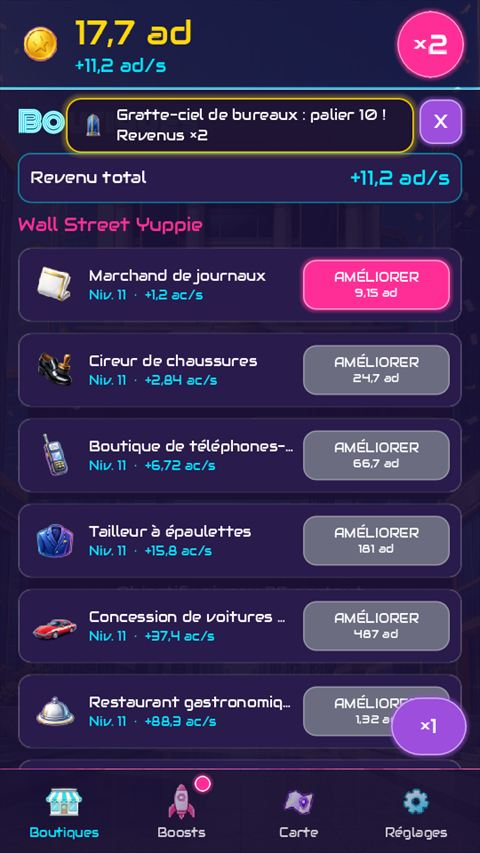
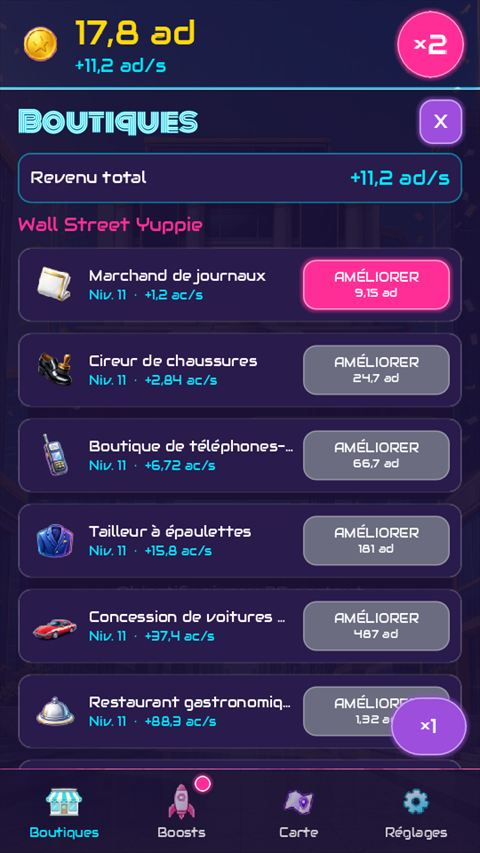
Fiches de jeu réorganisées et nouvelles captures de Shop Street Idle
- Captures phares en haut de chaque fiche, partie technique avant les
  mécaniques, mécaniques repliables, galerie complète à la fin
- Captures de Shop Street Idle refaites sans le bandeau de palier

Changed region(s): [[0.125, 0.0914, 0.875, 0.1829], [0.2188, 0.0, 0.4062, 0.061], [0.9062, 0.0305, 0.9375, 0.061]]

diff --git a/index.html b/index.html
@@ -1713,6 +1713,55 @@
             line-height: 1.6;
         }
 
+        .sheet-highlights {
+            margin-top: -20px;
+        }
+
+        .highlights {
+            display: grid;
+            gap: 14px;
+        }
+
+        .highlights.landscape {
+            grid-template-columns: repeat(3, 1fr);
+        }
+
+        .highlights.portrait {
+            grid-template-columns: repeat(5, 1fr);
+        }
+
+        .highlights.portrait .gallery-image {
+            aspect-ratio: 9 / 16;
+        }
+
+        .see-all {
+            display: inline-flex;
+            align-items: center;
+            gap: 6px;
+            margin-top: 14px;
+            color: var(--accent-light);
+            font-size: 0.88rem;
+            font-weight: 700;
+            text-decoration: none;
+        }
+
+        .see-all::after {
+            content: "↓";
+            transition: transform 0.25s ease;
+        }
+
+        .see-all:hover::after {
+            transform: translateY(3px);
+        }
+
+        .mechanics.collapsed .mechanic:nth-child(n + 7) {
+            display: none;
+        }
+
+        .mechanics-more {
+            margin-top: 16px;
+        }
+
         .gallery-group + .gallery-group {
             margin-top: 34px;
         }
@@ -1807,6 +1856,26 @@
 
             .shots figcaption {
                 font-size: 0.72rem;
+            }
+
+            .sheet-highlights {
+                margin-top: -12px;
+            }
+
+            .highlights {
+                gap: 10px;
+            }
+
+            .highlights.landscape {
+                grid-template-columns: 1fr 1fr;
+            }
+
+            .highlights.portrait {
+                grid-template-columns: repeat(3, 1fr);
+            }
+
+            .highlights.portrait .gallery-image:nth-child(n + 4) {
+                display: none;
             }
 
             .lightbox-nav {
@@ -2471,21 +2540,16 @@
                                             </div>
                                         </div>
 
-                                        <div class="sheet-section">
-                                            <h4>Comment ça marche</h4>
-                                            <p class="section-intro">Une boucle simple à prendre en main, avec plusieurs couches de progression pour garder un objectif à chaque instant.</p>
-                                            <div class="mechanics">
-                                                <div class="mechanic"><div class="emoji">⚡</div><h5>Produire de l'énergie</h5><p>Chaque toucher sur l'éclair produit de l'énergie. Un clic rapporte 1 + 10 % de la production par seconde : il reste utile du début à la fin.</p></div>
-                                                <div class="mechanic"><div class="emoji">🔋</div><h5>Six installations</h5><p>Pile, Générateur, Réacteur, Turbine à plasma, Cœur de fusion et Singularité. Chacune se révèle au fil de la partie et coûte 15 % plus cher à chaque achat. Achat par ×1, ×10, ×100 ou au maximum.</p></div>
-                                                <div class="mechanic"><div class="emoji">🧪</div><h5>Laboratoire</h5><p>Des améliorations ×2 pour chaque installation, et trois mutations à faire évoluer : chance, durée et puissance des surcharges.</p></div>
-                                                <div class="mechanic"><div class="emoji">🌩</div><h5>Surcharges</h5><p>Une anomalie énergétique peut se déclencher à chaque seconde et multiplier toute la production pendant quelques secondes. L'écran s'emballe et l'éclair pulse.</p></div>
-                                                <div class="mechanic"><div class="emoji">🎯</div><h5>Objectifs</h5><p>Un objectif court et un objectif long, générés selon la phase de jeu (cliquer, déclencher des surcharges, posséder des installations…), avec une récompense en énergie.</p></div>
-                                                <div class="mechanic"><div class="emoji">💎</div><h5>Prestige</h5><p>Relancer la station rapporte des cristaux d'énergie : +10 % de production chacun, pour toutes les parties suivantes. Histoire, succès et statistiques sont conservés.</p></div>
-                                                <div class="mechanic"><div class="emoji">🏆</div><h5>49 succès</h5><p>Énergie produite, installations, clics, surcharges, mutations, prestiges… Chaque succès ajoute +1 % de production de façon permanente.</p></div>
-                                                <div class="mechanic"><div class="emoji">📖</div><h5>Histoire à restaurer</h5><p>Dix illustrations à révéler en produisant toujours plus. Chaque chapitre débloqué déclenche une courte cinématique.</p></div>
-                                                <div class="mechanic"><div class="emoji">🌙</div><h5>Production hors ligne</h5><p>Les installations continuent de produire jusqu'à 2 h quand le jeu est fermé. Une fenêtre résume les gains au retour.</p></div>
-                                                <div class="mechanic"><div class="emoji">🚀</div><h5>Accélérateur</h5><p>Une publicité facultative double la production pendant 10 minutes, cumulable jusqu'à 2 heures.</p></div>
+                                        <div class="sheet-highlights">
+                                            <div class="highlights landscape">
+                                                <button class="gallery-image" type="button" aria-label="Agrandir : Écran principal avec l'éclair, la production et les objectifs"><img src="images/energie/jeu/base.jpg" alt="Écran principal avec l'éclair, la production et les objectifs" loading="lazy" decoding="async"></button>
+                                                <button class="gallery-image" type="button" aria-label="Agrandir : Surcharge en cours sur l'écran principal"><img src="images/energie/jeu/surcharge.jpg" alt="Surcharge en cours sur l'écran principal" loading="lazy" decoding="async"></button>
+                                                <button class="gallery-image" type="button" aria-label="Agrandir : Les six installations débloquées"><img src="images/energie/jeu/installations-avancees.jpg" alt="Les six installations débloquées" loading="lazy" decoding="async"></button>
+                                                <button class="gallery-image" type="button" aria-label="Agrandir : Laboratoire : mutations et améliorations"><img src="images/energie/jeu/laboratoire.jpg" alt="Laboratoire : mutations et améliorations" loading="lazy" decoding="async"></button>
+                                                <button class="gallery-image" type="button" aria-label="Agrandir : Prestige avec 14 cristaux"><img src="images/energie/jeu/prestige-avance.jpg" alt="Prestige avec 14 cristaux" loading="lazy" decoding="async"></button>
+                                                <button class="gallery-image" type="button" aria-label="Agrandir : Chapitre 9 : La véritable forme"><img src="images/energie/jeu/histoire-09.jpg" alt="Chapitre 9 : La véritable forme" loading="lazy" decoding="async"></button>
                                             </div>
+                                            <a class="see-all" href="#galerie-energie">Voir les 22 captures</a>
                                         </div>
 
                                         <div class="sheet-section">
@@ -2502,7 +2566,25 @@
                                         </div>
 
                                         <div class="sheet-section">
-                                            <h4>En images</h4>
+                                            <h4>Comment ça marche</h4>
+                                            <p class="section-intro">Une boucle simple à prendre en main, avec plusieurs couches de progression pour garder un objectif à chaque instant.</p>
+                                            <div class="mechanics collapsed">
+                                                <div class="mechanic"><div class="emoji">⚡</div><h5>Produire de l'énergie</h5><p>Chaque toucher sur l'éclair produit de l'énergie. Un clic rapporte 1 + 10 % de la production par seconde : il reste utile du début à la fin.</p></div>
+                                                <div class="mechanic"><div class="emoji">🔋</div><h5>Six installations</h5><p>Pile, Générateur, Réacteur, Turbine à plasma, Cœur de fusion et Singularité. Chacune se révèle au fil de la partie et coûte 15 % plus cher à chaque achat. Achat par ×1, ×10, ×100 ou au maximum.</p></div>
+                                                <div class="mechanic"><div class="emoji">🧪</div><h5>Laboratoire</h5><p>Des améliorations ×2 pour chaque installation, et trois mutations à faire évoluer : chance, durée et puissance des surcharges.</p></div>
+                                                <div class="mechanic"><div class="emoji">🌩</div><h5>Surcharges</h5><p>Une anomalie énergétique peut se déclencher à chaque seconde et multiplier toute la production pendant quelques secondes. L'écran s'emballe et l'éclair pulse.</p></div>
+                                                <div class="mechanic"><div class="emoji">🎯</div><h5>Objectifs</h5><p>Un objectif court et un objectif long, générés selon la phase de jeu (cliquer, déclencher des surcharges, posséder des installations…), avec une récompense en énergie.</p></div>
+                                                <div class="mechanic"><div class="emoji">💎</div><h5>Prestige</h5><p>Relancer la station rapporte des cristaux d'énergie : +10 % de production chacun, pour toutes les parties suivantes. Histoire, succès et statistiques sont conservés.</p></div>
+                                                <div class="mechanic"><div class="emoji">🏆</div><h5>49 succès</h5><p>Énergie produite, installations, clics, surcharges, mutations, prestiges… Chaque succès ajoute +1 % de production de façon permanente.</p></div>
+                                                <div class="mechanic"><div class="emoji">📖</div><h5>Histoire à restaurer</h5><p>Dix illustrations à révéler en produisant toujours plus. Chaque chapitre débloqué déclenche une courte cinématique.</p></div>
+                                                <div class="mechanic"><div class="emoji">🌙</div><h5>Production hors ligne</h5><p>Les installations continuent de produire jusqu'à 2 h quand le jeu est fermé. Une fenêtre résume les gains au retour.</p></div>
+                                                <div class="mechanic"><div class="emoji">🚀</div><h5>Accélérateur</h5><p>Une publicité facultative double la production pendant 10 minutes, cumulable jusqu'à 2 heures.</p></div>
+                                            </div>
+                                            <button class="button button-secondary mechanics-more" type="button" aria-expanded="false" data-more="Voir toutes les mécaniques (10)" data-less="Réduire">Voir toutes les mécaniques (10)</button>
+                                        </div>
+
+                                        <div class="sheet-section sheet-gallery" id="galerie-energie">
+                                            <h4>Galerie complète</h4>
                                             <p class="section-intro">Captures de la version 2.0.0. Cliquez sur une image pour l'agrandir et faire défiler la galerie.</p>
 
                                             <div class="gallery-group">
@@ -2614,21 +2696,15 @@
                                             </div>
                                         </div>
 
-                                        <div class="sheet-section">
-                                            <h4>Comment ça marche</h4>
-                                            <p class="section-intro">Une progression pensée pour qu'il y ait toujours une boutique à acheter, un palier à viser ou une rue à débloquer.</p>
-                                            <div class="mechanics">
-                                                <div class="mechanic"><div class="emoji">💰</div><h5>Revenus passifs</h5><p>Chaque boutique produit des pièces chaque seconde. Les boutiques suivantes coûtent ×2,7 plus cher mais rapportent ×2,36 plus : la courbe reste toujours motivante.</p></div>
-                                                <div class="mechanic"><div class="emoji">⬆</div><h5>Améliorations</h5><p>Chaque niveau augmente les revenus de la boutique (+15 % de prix par niveau). Achat par ×1, ×10, ×100 ou MAX en un seul bouton.</p></div>
-                                                <div class="mechanic"><div class="emoji">🏅</div><h5>Paliers</h5><p>Aux niveaux 10, 25, 50 et 100, les revenus de la boutique doublent, avec une animation et un son dédiés.</p></div>
-                                                <div class="mechanic"><div class="emoji">🛣</div><h5>Dix rues</h5><p>Débloquer une rue ouvre un nouvel univers graphique et de nouvelles boutiques. La carte permet de revenir sur les anciennes rues.</p></div>
-                                                <div class="mechanic"><div class="emoji">🌙</div><h5>Gains hors ligne</h5><p>Les boutiques rapportent 50 % de leurs revenus pendant l'absence du joueur, jusqu'à 4 heures, avec un récapitulatif au retour.</p></div>
-                                                <div class="mechanic"><div class="emoji">🚐</div><h5>Le camion VHS</h5><p>Il traverse la rue toutes les 15 minutes : le toucher propose un bonus de pièces en échange d'une publicité, toujours facultative.</p></div>
-                                                <div class="mechanic"><div class="emoji">⚡</div><h5>Boost ×2</h5><p>Une publicité double tous les revenus pendant 30 minutes, cumulable jusqu'à 4 heures.</p></div>
-                                                <div class="mechanic"><div class="emoji">🎁</div><h5>Amélioration gratuite</h5><p>Toutes les 15 minutes : +5 niveaux offerts à la boutique de son choix.</p></div>
-                                                <div class="mechanic"><div class="emoji">🎓</div><h5>Tutoriel guidé</h5><p>Les premières minutes guident le joueur : acheter, améliorer, puis attraper le camion.</p></div>
-                                                <div class="mechanic"><div class="emoji">👑</div><h5>Titre de Magnat</h5><p>Le but ultime : les 65 boutiques au niveau 25. On peut ensuite continuer jusqu'au niveau 999.</p></div>
+                                        <div class="sheet-highlights">
+                                            <div class="highlights portrait">
+                                                <button class="gallery-image" type="button" aria-label="Agrandir : Rue 1 : Miami Néon"><img src="images/shop-street/jeu/rue-01-miami-neon.jpg" alt="Rue 1 : Miami Néon" loading="lazy" decoding="async"></button>
+                                                <button class="gallery-image" type="button" aria-label="Agrandir : Rue 4 : Tokyo Pop"><img src="images/shop-street/jeu/rue-04-tokyo-pop.jpg" alt="Rue 4 : Tokyo Pop" loading="lazy" decoding="async"></button>
+                                                <button class="gallery-image" type="button" aria-label="Agrandir : Rue 7 : Ski Fluo"><img src="images/shop-street/jeu/rue-07-ski-fluo.jpg" alt="Rue 7 : Ski Fluo" loading="lazy" decoding="async"></button>
+                                                <button class="gallery-image" type="button" aria-label="Agrandir : Rue 9 : Station Lunaire"><img src="images/shop-street/jeu/rue-09-station-lunaire.jpg" alt="Rue 9 : Station Lunaire" loading="lazy" decoding="async"></button>
+                                                <button class="gallery-image" type="button" aria-label="Agrandir : Rue 10 : Wall Street Yuppie"><img src="images/shop-street/jeu/rue-10-wall-street.jpg" alt="Rue 10 : Wall Street Yuppie" loading="lazy" decoding="async"></button>
                                             </div>
+                                            <a class="see-all" href="#galerie-shop-street">Voir les 22 captures</a>
                                         </div>
 
                                         <div class="sheet-section">
@@ -2645,7 +2721,25 @@
                                         </div>
 
                                         <div class="sheet-section">
-                                            <h4>En images</h4>
+                                            <h4>Comment ça marche</h4>
+                                            <p class="section-intro">Une progression pensée pour qu'il y ait toujours une boutique à acheter, un palier à viser ou une rue à débloquer.</p>
+                                            <div class="mechanics collapsed">
+                                                <div class="mechanic"><div class="emoji">💰</div><h5>Revenus passifs</h5><p>Chaque boutique produit des pièces chaque seconde. Les boutiques suivantes coûtent ×2,7 plus cher mais rapportent ×2,36 plus : la courbe reste toujours motivante.</p></div>
+                                                <div class="mechanic"><div class="emoji">⬆</div><h5>Améliorations</h5><p>Chaque niveau augmente les revenus de la boutique (+15 % de prix par niveau). Achat par ×1, ×10, ×100 ou MAX en un seul bouton.</p></div>
+                                                <div class="mechanic"><div class="emoji">🏅</div><h5>Paliers</h5><p>Aux niveaux 10, 25, 50 et 100, les revenus de la boutique doublent, avec une animation et un son dédiés.</p></div>
+                                                <div class="mechanic"><div class="emoji">🛣</div><h5>Dix rues</h5><p>Débloquer une rue ouvre un nouvel univers graphique et de nouvelles boutiques. La carte permet de revenir sur les anciennes rues.</p></div>
+                                                <div class="mechanic"><div class="emoji">🌙</div><h5>Gains hors ligne</h5><p>Les boutiques rapportent 50 % de leurs revenus pendant l'absence du joueur, jusqu'à 4 heures, avec un récapitulatif au retour.</p></div>
+                                                <div class="mechanic"><div class="emoji">🚐</div><h5>Le camion VHS</h5><p>Il traverse la rue toutes les 15 minutes : le toucher propose un bonus de pièces en échange d'une publicité, toujours facultative.</p></div>
+                                                <div class="mechanic"><div class="emoji">⚡</div><h5>Boost ×2</h5><p>Une publicité double tous les revenus pendant 30 minutes, cumulable jusqu'à 4 heures.</p></div>
+                                                <div class="mechanic"><div class="emoji">🎁</div><h5>Amélioration gratuite</h5><p>Toutes les 15 minutes : +5 niveaux offerts à la boutique de son choix.</p></div>
+                                                <div class="mechanic"><div class="emoji">🎓</div><h5>Tutoriel guidé</h5><p>Les premières minutes guident le joueur : acheter, améliorer, puis attraper le camion.</p></div>
+                                                <div class="mechanic"><div class="emoji">👑</div><h5>Titre de Magnat</h5><p>Le but ultime : les 65 boutiques au niveau 25. On peut ensuite continuer jusqu'au niveau 999.</p></div>
+                                            </div>
+                                            <button class="button button-secondary mechanics-more" type="button" aria-expanded="false" data-more="Voir toutes les mécaniques (10)" data-less="Réduire">Voir toutes les mécaniques (10)</button>
+                                        </div>
+
+                                        <div class="sheet-section sheet-gallery" id="galerie-shop-street">
+                                            <h4>Galerie complète</h4>
                                             <p class="section-intro">Captures prises pendant une partie complète, de la première boutique jusqu'au titre de Magnat. Cliquez pour agrandir et faire défiler.</p>
 
                                             <div class="gallery-group">
@@ -2757,22 +2851,16 @@
                                             </div>
                                         </div>
 
-                                        <div class="sheet-section">
-                                            <h4>Comment ça marche</h4>
-                                            <p class="section-intro">Un jeu calme et vivant : il y a toujours quelque chose à faire pendant les attentes, sans jamais accélérer artificiellement la partie.</p>
-                                            <div class="mechanics">
-                                                <div class="mechanic"><div class="emoji">👥</div><h5>Des villageois uniques</h5><p>Chacun a un prénom, une apparence, des compétences et des affinités. Discuter avec eux dévoile peu à peu leur histoire, et ils formulent leurs propres petites demandes.</p></div>
-                                                <div class="mechanic"><div class="emoji">🪓</div><h5>Missions</h5><p>Réparer, produire, construire, abattre, accueillir un nouveau venu. Les villageois marchent jusqu'au lieu de travail, attendent que l'équipe soit au complet, travaillent puis rentrent.</p></div>
-                                                <div class="mechanic"><div class="emoji">🏗</div><h5>Construction libre</h5><p>On choisit l'emplacement de chaque bâtiment sur la carte, on lance le chantier, et on peut déplacer ses bâtiments à tout moment.</p></div>
-                                                <div class="mechanic"><div class="emoji">⚙</div><h5>Chaînes de production</h5><p>Le blé devient farine au moulin puis pain à la boulangerie. La laine passe par la filature puis l'atelier de tissage. Le miel du rucher donne la cire, puis les bougies.</p></div>
-                                                <div class="mechanic"><div class="emoji">🌳</div><h5>Arbre de compétences</h5><p>Sept branches (bois, eau, pierre, réserve, champ, moulin, boulangerie). Une seule recherche à la fois pour tout le village, qui avance même jeu fermé et s'annule sans perte.</p></div>
-                                                <div class="mechanic"><div class="emoji">🔥</div><h5>Le feu de camp</h5><p>Le cœur du village : le repas partagé et la veillée aux bougies donnent chacun un bonus de production pendant une heure.</p></div>
-                                                <div class="mechanic"><div class="emoji">🍄</div><h5>Cueillette et trésors</h5><p>Des trouvailles scintillent sur la carte (12 à collectionner), et 8 trésors de l'ancien village attendent d'être retrouvés, chacun avec son histoire.</p></div>
-                                                <div class="mechanic"><div class="emoji">🎯</div><h5>Objectifs du jour et journal</h5><p>Des objectifs quotidiens renouvelés et un journal qui raconte tout ce qui se passe dans le village.</p></div>
-                                                <div class="mechanic"><div class="emoji">🌗</div><h5>Jour et nuit</h5><p>Le ciel suit l'heure réelle du téléphone : aube, journée, crépuscule et nuit. Le feu de camp et les lanternes éclairent le village dans l'obscurité.</p></div>
-                                                <div class="mechanic"><div class="emoji">🐾</div><h5>Animaux de la vallée</h5><p>Chats et chiens près du camp, poules, vaches, cochons et poissons dans la rivière. Les toucher fait apparaître un petit cœur.</p></div>
-                                                <div class="mechanic"><div class="emoji">📖</div><h5>Une histoire</h5><p>Une introduction, le Carnet d'Aube et ses pages à débloquer, puis la Fête des Lanternes, où les villageois se réunissent pour lâcher des lanternes dans la nuit.</p></div>
+                                        <div class="sheet-highlights">
+                                            <div class="highlights landscape">
+                                                <button class="gallery-image" type="button" aria-label="Agrandir : Vue du village avec ses bâtiments et villageois"><img src="images/haubeolia/jeu/village.jpg" alt="Vue du village avec ses bâtiments et villageois" loading="lazy" decoding="async"></button>
+                                                <button class="gallery-image" type="button" aria-label="Agrandir : Le village la nuit, éclairé par le feu de camp"><img src="images/haubeolia/jeu/nuit.jpg" alt="Le village la nuit, éclairé par le feu de camp" loading="lazy" decoding="async"></button>
+                                                <button class="gallery-image" type="button" aria-label="Agrandir : Menu de la scierie"><img src="images/haubeolia/jeu/menu-scierie.jpg" alt="Menu de la scierie" loading="lazy" decoding="async"></button>
+                                                <button class="gallery-image" type="button" aria-label="Agrandir : Fiche du villageois Bertrand"><img src="images/haubeolia/jeu/fiche-villageois.jpg" alt="Fiche du villageois Bertrand" loading="lazy" decoding="async"></button>
+                                                <button class="gallery-image" type="button" aria-label="Agrandir : Arbre de compétences"><img src="images/haubeolia/jeu/arbre-competences.jpg" alt="Arbre de compétences" loading="lazy" decoding="async"></button>
+                                                <button class="gallery-image" type="button" aria-label="Agrandir : Menu de construction"><img src="images/haubeolia/jeu/menu-construction.jpg" alt="Menu de construction" loading="lazy" decoding="async"></button>
                                             </div>
+                                            <a class="see-all" href="#galerie-haubeolia">Voir les 24 captures</a>
                                         </div>
 
                                         <div class="sheet-section">
@@ -2789,7 +2877,26 @@
                                         </div>
 
                                         <div class="sheet-section">
-                                            <h4>En images</h4>
+                                            <h4>Comment ça marche</h4>
+                                            <p class="section-intro">Un jeu calme et vivant : il y a toujours quelque chose à faire pendant les attentes, sans jamais accélérer artificiellement la partie.</p>
+                                            <div class="mechanics collapsed">
+                                                <div class="mechanic"><div class="emoji">👥</div><h5>Des villageois uniques</h5><p>Chacun a un prénom, une apparence, des compétences et des affinités. Discuter avec eux dévoile peu à peu leur histoire, et ils formulent leurs propres petites demandes.</p></div>
+                                                <div class="mechanic"><div class="emoji">🪓</div><h5>Missions</h5><p>Réparer, produire, construire, abattre, accueillir un nouveau venu. Les villageois marchent jusqu'au lieu de travail, attendent que l'équipe soit au complet, travaillent puis rentrent.</p></div>
+                                                <div class="mechanic"><div class="emoji">🏗</div><h5>Construction libre</h5><p>On choisit l'emplacement de chaque bâtiment sur la carte, on lance le chantier, et on peut déplacer ses bâtiments à tout moment.</p></div>
+                                                <div class="mechanic"><div class="emoji">⚙</div><h5>Chaînes de production</h5><p>Le blé devient farine au moulin puis pain à la boulangerie. La laine passe par la filature puis l'atelier de tissage. Le miel du rucher donne la cire, puis les bougies.</p></div>
+                                                <div class="mechanic"><div class="emoji">🌳</div><h5>Arbre de compétences</h5><p>Sept branches (bois, eau, pierre, réserve, champ, moulin, boulangerie). Une seule recherche à la fois pour tout le village, qui avance même jeu fermé et s'annule sans perte.</p></div>
+                                                <div class="mechanic"><div class="emoji">🔥</div><h5>Le feu de camp</h5><p>Le cœur du village : le repas partagé et la veillée aux bougies donnent chacun un bonus de production pendant une heure.</p></div>
+                                                <div class="mechanic"><div class="emoji">🍄</div><h5>Cueillette et trésors</h5><p>Des trouvailles scintillent sur la carte (12 à collectionner), et 8 trésors de l'ancien village attendent d'être retrouvés, chacun avec son histoire.</p></div>
+                                                <div class="mechanic"><div class="emoji">🎯</div><h5>Objectifs du jour et journal</h5><p>Des objectifs quotidiens renouvelés et un journal qui raconte tout ce qui se passe dans le village.</p></div>
+                                                <div class="mechanic"><div class="emoji">🌗</div><h5>Jour et nuit</h5><p>Le ciel suit l'heure réelle du téléphone : aube, journée, crépuscule et nuit. Le feu de camp et les lanternes éclairent le village dans l'obscurité.</p></div>
+                                                <div class="mechanic"><div class="emoji">🐾</div><h5>Animaux de la vallée</h5><p>Chats et chiens près du camp, poules, vaches, cochons et poissons dans la rivière. Les toucher fait apparaître un petit cœur.</p></div>
+                                                <div class="mechanic"><div class="emoji">📖</div><h5>Une histoire</h5><p>Une introduction, le Carnet d'Aube et ses pages à débloquer, puis la Fête des Lanternes, où les villageois se réunissent pour lâcher des lanternes dans la nuit.</p></div>
+                                            </div>
+                                            <button class="button button-secondary mechanics-more" type="button" aria-expanded="false" data-more="Voir toutes les mécaniques (11)" data-less="Réduire">Voir toutes les mécaniques (11)</button>
+                                        </div>
+
+                                        <div class="sheet-section sheet-gallery" id="galerie-haubeolia">
+                                            <h4>Galerie complète</h4>
                                             <p class="section-intro">Captures d'une partie en cours. Cliquez pour agrandir et faire défiler.</p>
 
                                             <div class="gallery-group">
@@ -2911,8 +3018,8 @@
                                             </div>
                                         </div>
 
-                                        <div class="sheet-section">
-                                            <h4>En images</h4>
+                                        <div class="sheet-section sheet-gallery" id="galerie-dragon">
+                                            <h4>Galerie complète</h4>
                                             <div class="shots landscape">
                                                 <figure><button class="gallery-image" type="button" aria-label="Agrandir : écran titre"><img src="images/jeu1/image1.jpg" alt="Écran titre du jeu Le Souffle du Dragon" width="1280" height="722" loading="lazy" decoding="async"></button><figcaption>Écran titre</figcaption></figure>
                                                 <figure><button class="gallery-image" type="button" aria-label="Agrandir : en jeu"><img src="images/jeu1/image2.jpg" alt="Capture du jeu narratif Le Souffle du Dragon" width="1280" height="722" loading="lazy" decoding="async"></button><figcaption>En jeu</figcaption></figure>
@@ -3197,6 +3304,14 @@
             });
         });
 
+        document.querySelectorAll(".mechanics-more").forEach(btn => {
+            btn.addEventListener("click", () => {
+                const collapsed = btn.previousElementSibling.classList.toggle("collapsed");
+                btn.setAttribute("aria-expanded", String(!collapsed));
+                btn.textContent = collapsed ? btn.dataset.more : btn.dataset.less;
+            });
+        });
+
         document.querySelectorAll("[data-count]").forEach(el => {
             el.textContent = countOf(el.dataset.count);
         });
@@ -3228,9 +3343,13 @@
 
         const openLightbox = btn => {
             lastFocus = document.activeElement;
-            const scope = btn.closest(".game-sheet, .project-media") || document;
-            lightboxSet = [...scope.querySelectorAll(".gallery-image")];
-            lightboxIndex = Math.max(0, lightboxSet.indexOf(btn));
+            // Une capture phare ouvre la galerie complète de la fiche, à la même image
+            const sheet = btn.closest(".game-sheet");
+            const src = btn.querySelector("img").getAttribute("src");
+            lightboxSet = sheet
+                ? [...sheet.querySelectorAll(".sheet-gallery .gallery-image")]
+                : [...(btn.closest(".project-media") || document).querySelectorAll(".gallery-image")];
+            lightboxIndex = Math.max(0, lightboxSet.findIndex(b => b.querySelector("img").getAttribute("src") === src));
             showLightboxImage();
             lightbox.hidden = false;
             requestAnimationFrame(() => lightbox.classList.add("open"));
